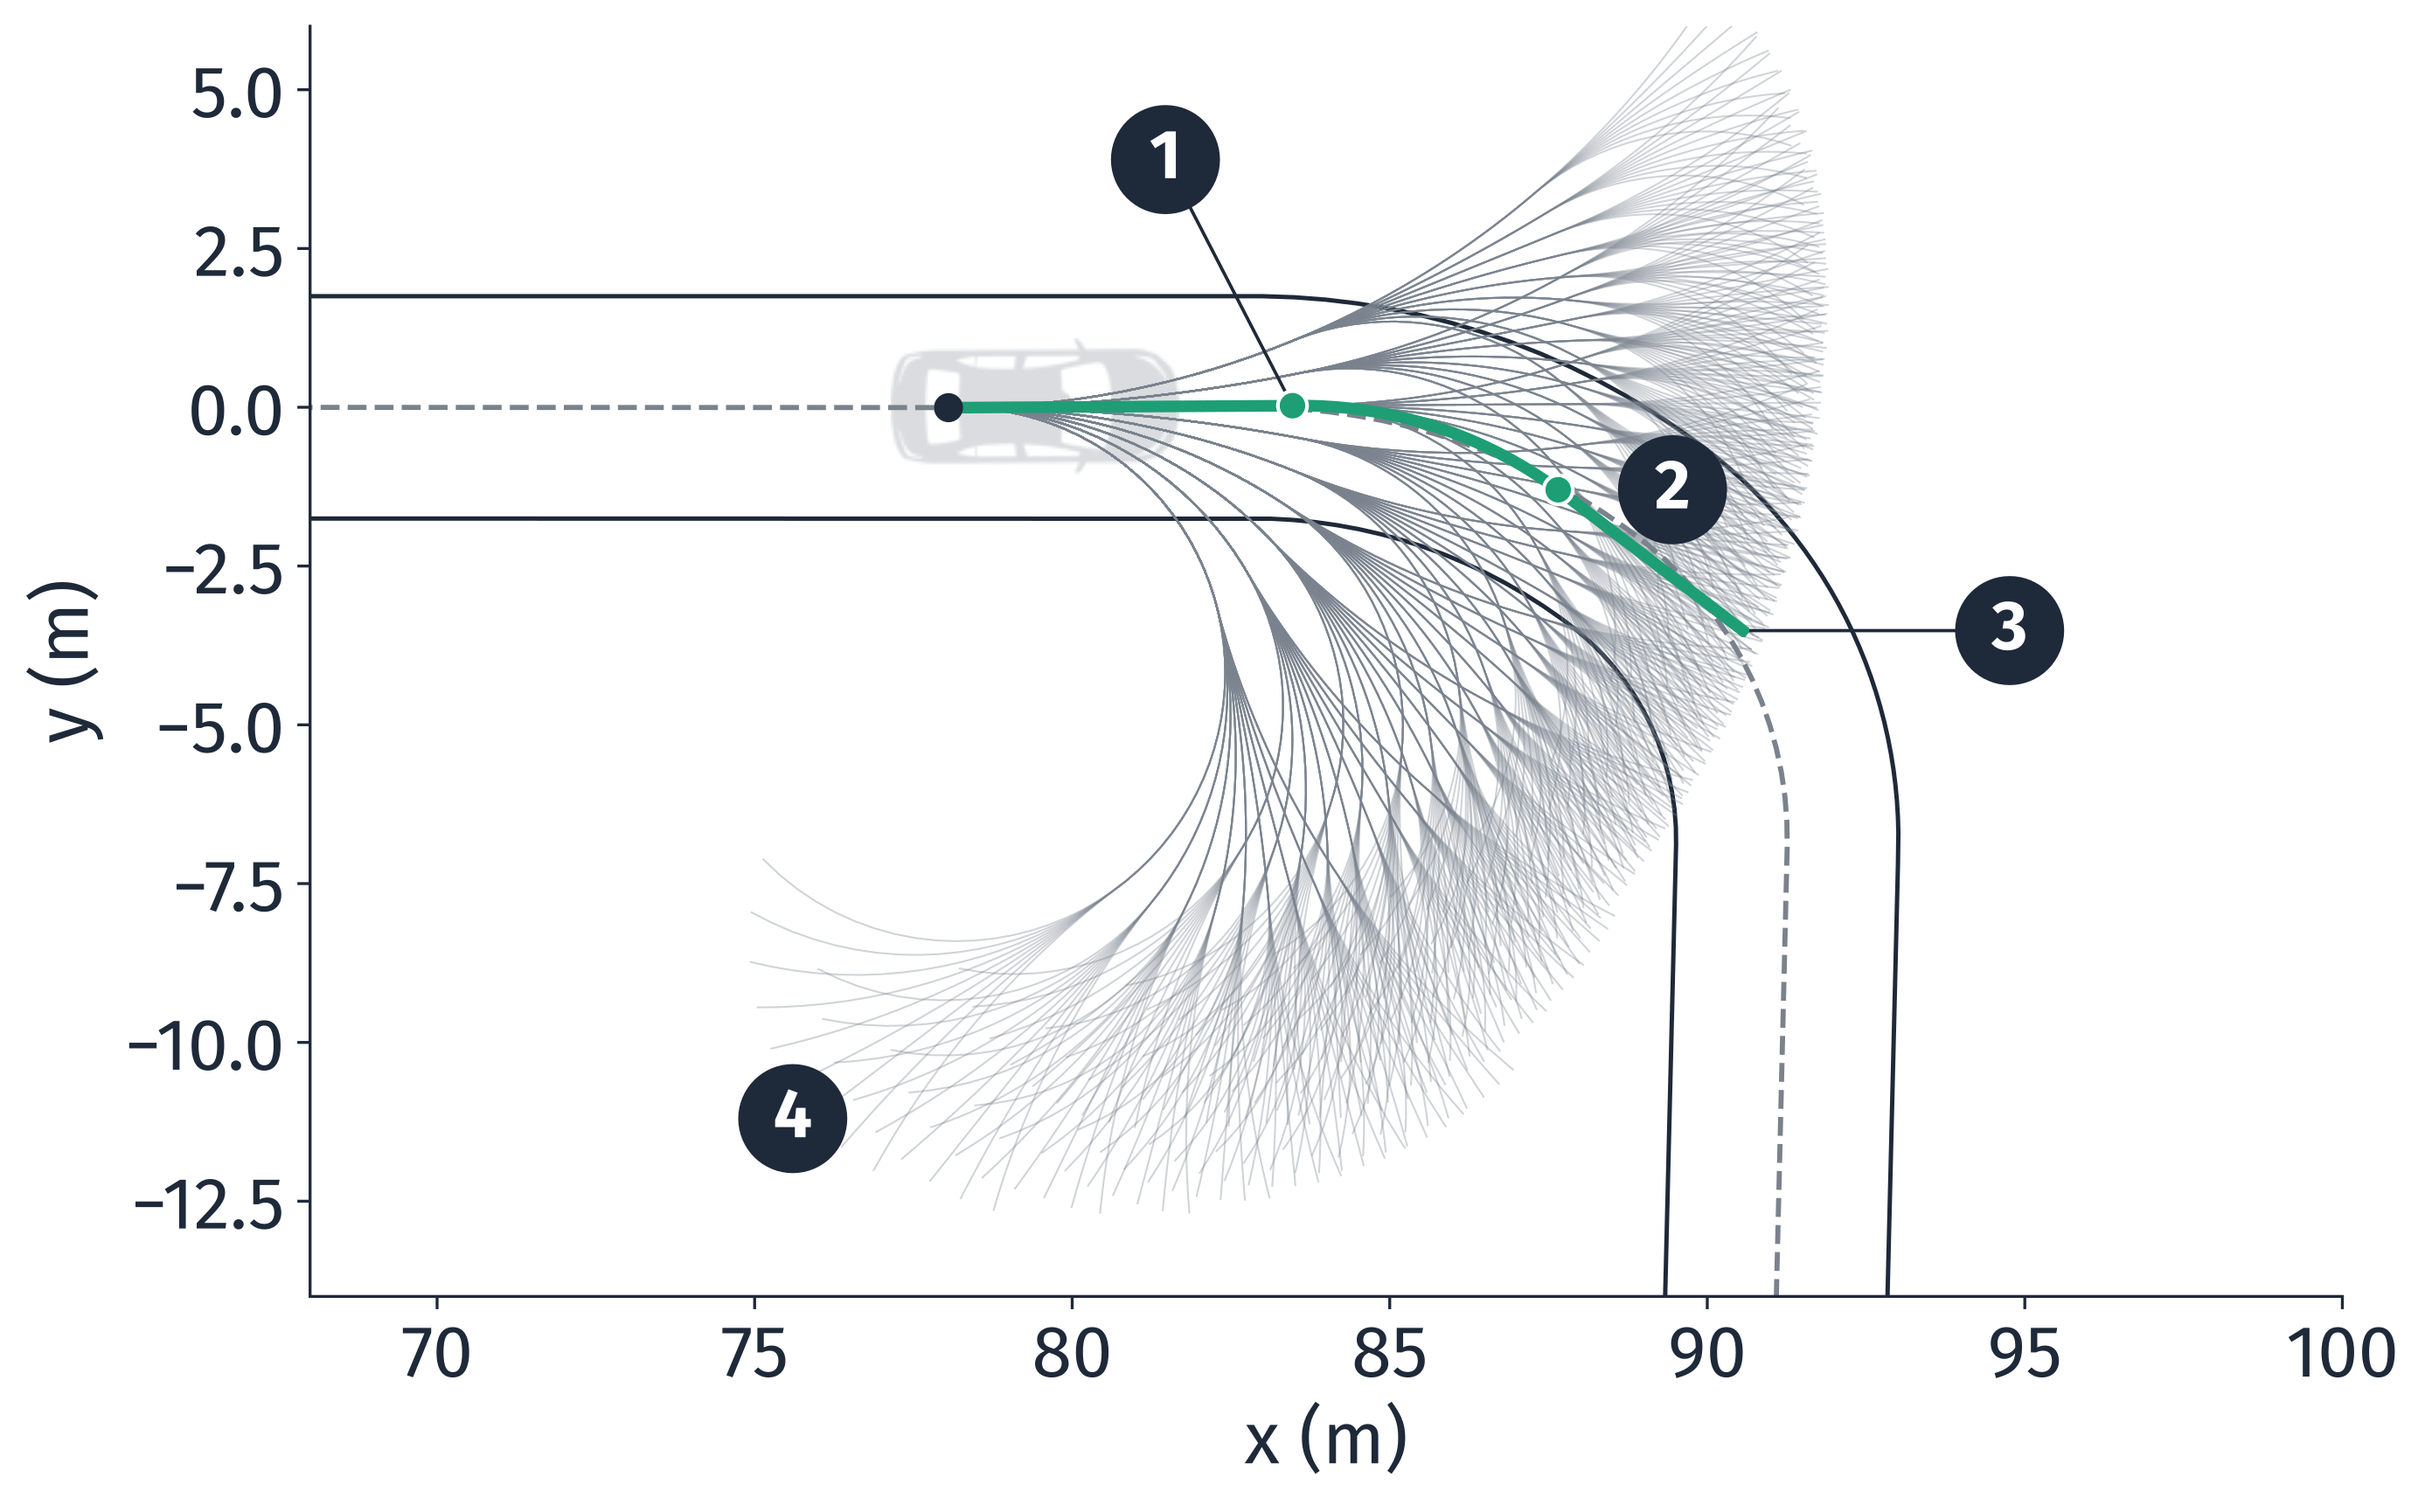
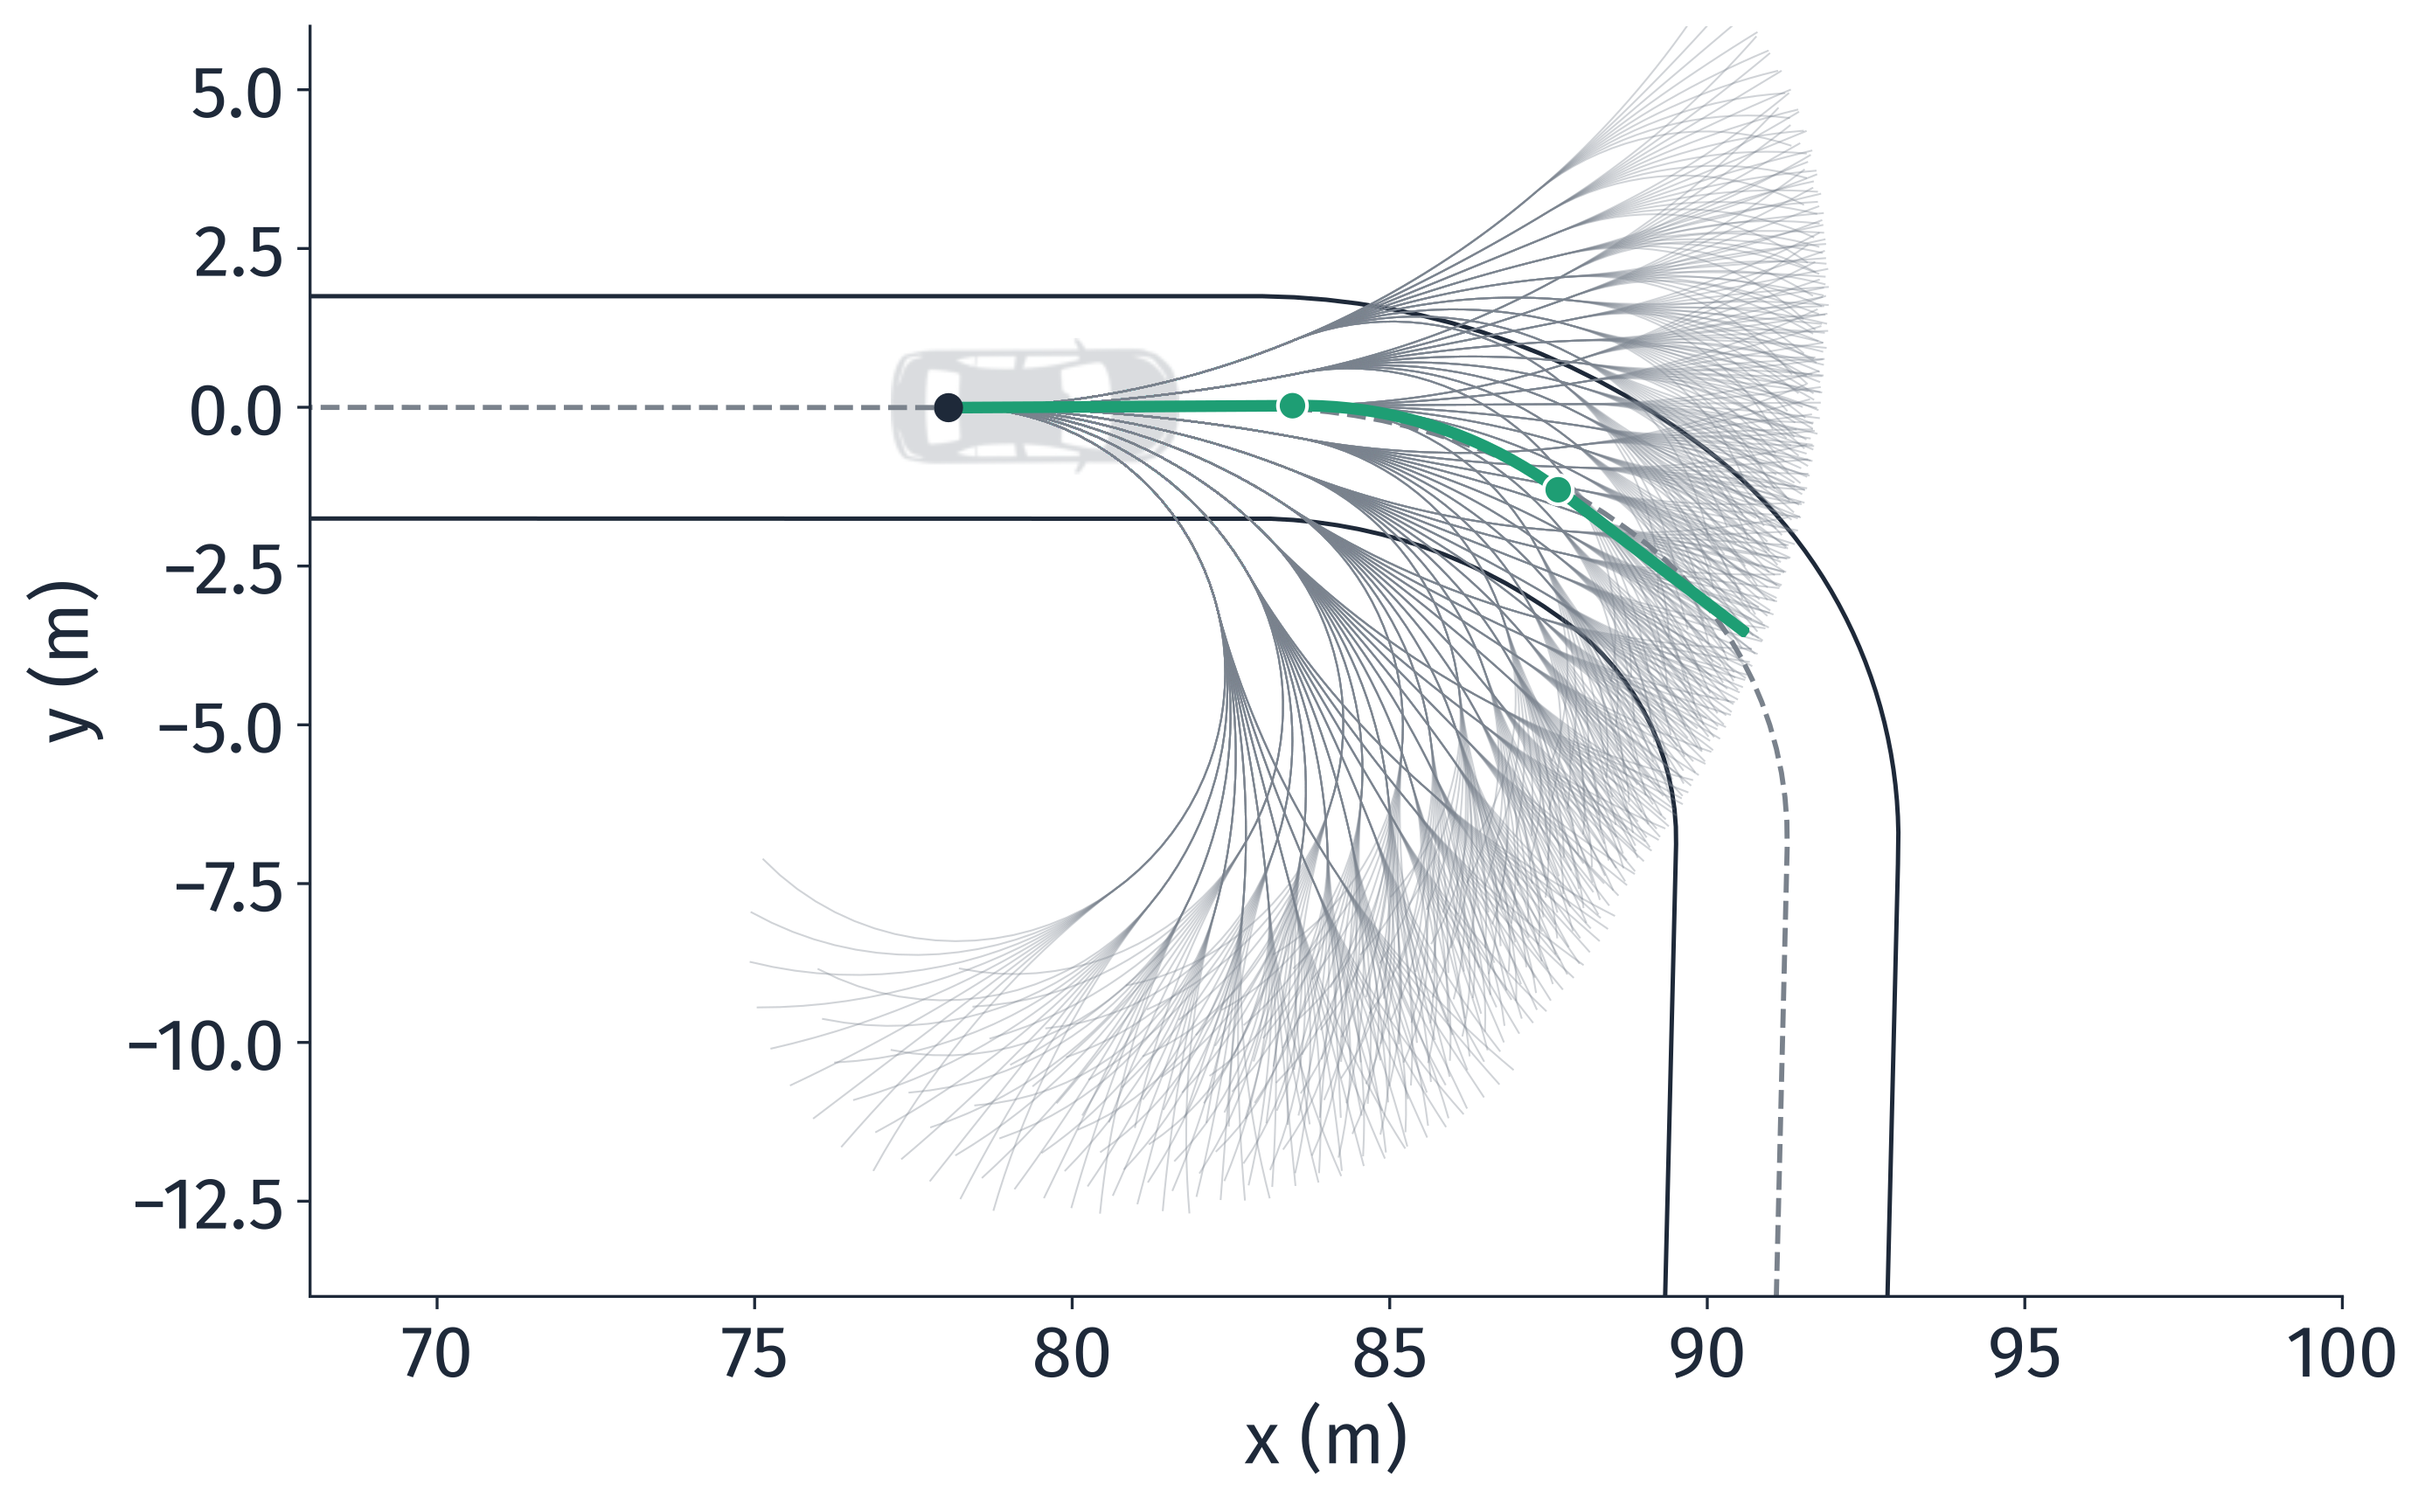
L10: MPC candidates figure without tags

diff --git a/docs/source/lectures/lecture10/l10_lecture.rst b/docs/source/lectures/lecture10/l10_lecture.rst
@@ -4532,7 +4532,7 @@ Make MPC's First Plan: Try 729 Steering Plans, Keep the Best
 the path. The AV is 2 m before the curve, at 7.09 m/s.
 
 .. figure:: /_static/images/L10/mpc_candidates.png
-   :alt: A top view of the right curve, x from 68 to 100 meters and y from minus 14 to 6. The lane comes in from the left along y = 0 and bends down; solid lines mark its edges and a dashed gray line its center. The AV is drawn faintly at about x = 78, with a dark dot at its rear axle. A fan of hundreds of thin gray curves leaves the rear axle: a few bend left, up to y = 6, and most bend right, down to about y = minus 12.7; dark tag 4 sits at the fan's lower-left end. One thick green curve runs along the lane center past a green dot (dark tag 1, joined by a thin line from above), bends right past a second green dot (dark tag 2) and ends inside the curve, at about x = 90.6 and y = minus 3.5, joined by a thin line to dark tag 3 to the right of the lane.
+   :alt: A top view of the right curve, x from 68 to 100 meters and y from minus 14 to 6. The lane comes in from the left along y = 0 and bends down; solid lines mark its edges and a dashed gray line its center. The AV is drawn faintly at about x = 78, with a dark dot at its rear axle. A fan of hundreds of thin gray curves leaves the rear axle: a few bend left, up to y = 6, and most bend right, down to about y = minus 12.7. One thick green curve runs straight along the lane center to a green dot near x = 83.5, bends right to a second green dot near x = 87.7 and y = minus 1.3, and ends inside the curve, at about x = 90.6 and y = minus 3.5.
    :width: 80%
    :align: center
 
@@ -4544,18 +4544,19 @@ the path. The AV is 2 m before the curve, at 7.09 m/s.
    A top view of the curve, in meters. The AV is drawn faintly; the dark dot
    is its rear axle, where every plan starts.
 
-   - **Tag 4 (gray):** the 729 predicted paths, one per plan.
-   - **Tags 1 to 3 (green):** the best plan's path, at 1, 2 and 3 s.
+   - **Gray:** the 729 predicted paths, one per plan.
+   - **Green:** the best plan's path; its dots mark 1 and 2 s, where the
+     held angle changes.
 
 1. **Measure** the AV's pose and speed now.
 2. **List the plans:** a plan holds one steering angle for 1 s, three times
    in a row. Each angle is one of 9 values, −0.6 to 0.2 rad in steps of
-   0.1: :math:`9^3` = 729 plans (tag 4).
+   0.1: :math:`9^3` = 729 plans (gray).
 3. **Predict** each plan with the bicycle model, 60 steps of 0.05 s. Our MPC
    chooses only the steering; at each step the speed comes from the speed
    profile.
 4. **Score** each predicted path (next section) and keep the lowest: 0, then
-   −0.4 (a right steer), then 0 rad, shown at 1, 2 and 3 s by tags 1 to 3.
+   −0.4 (a right steer), then 0 rad (green).
 
 No formula gives :math:`\delta` here, unlike Pure Pursuit and Stanley: MPC
 tries angles and keeps the plan whose predicted path scores best. Its only
